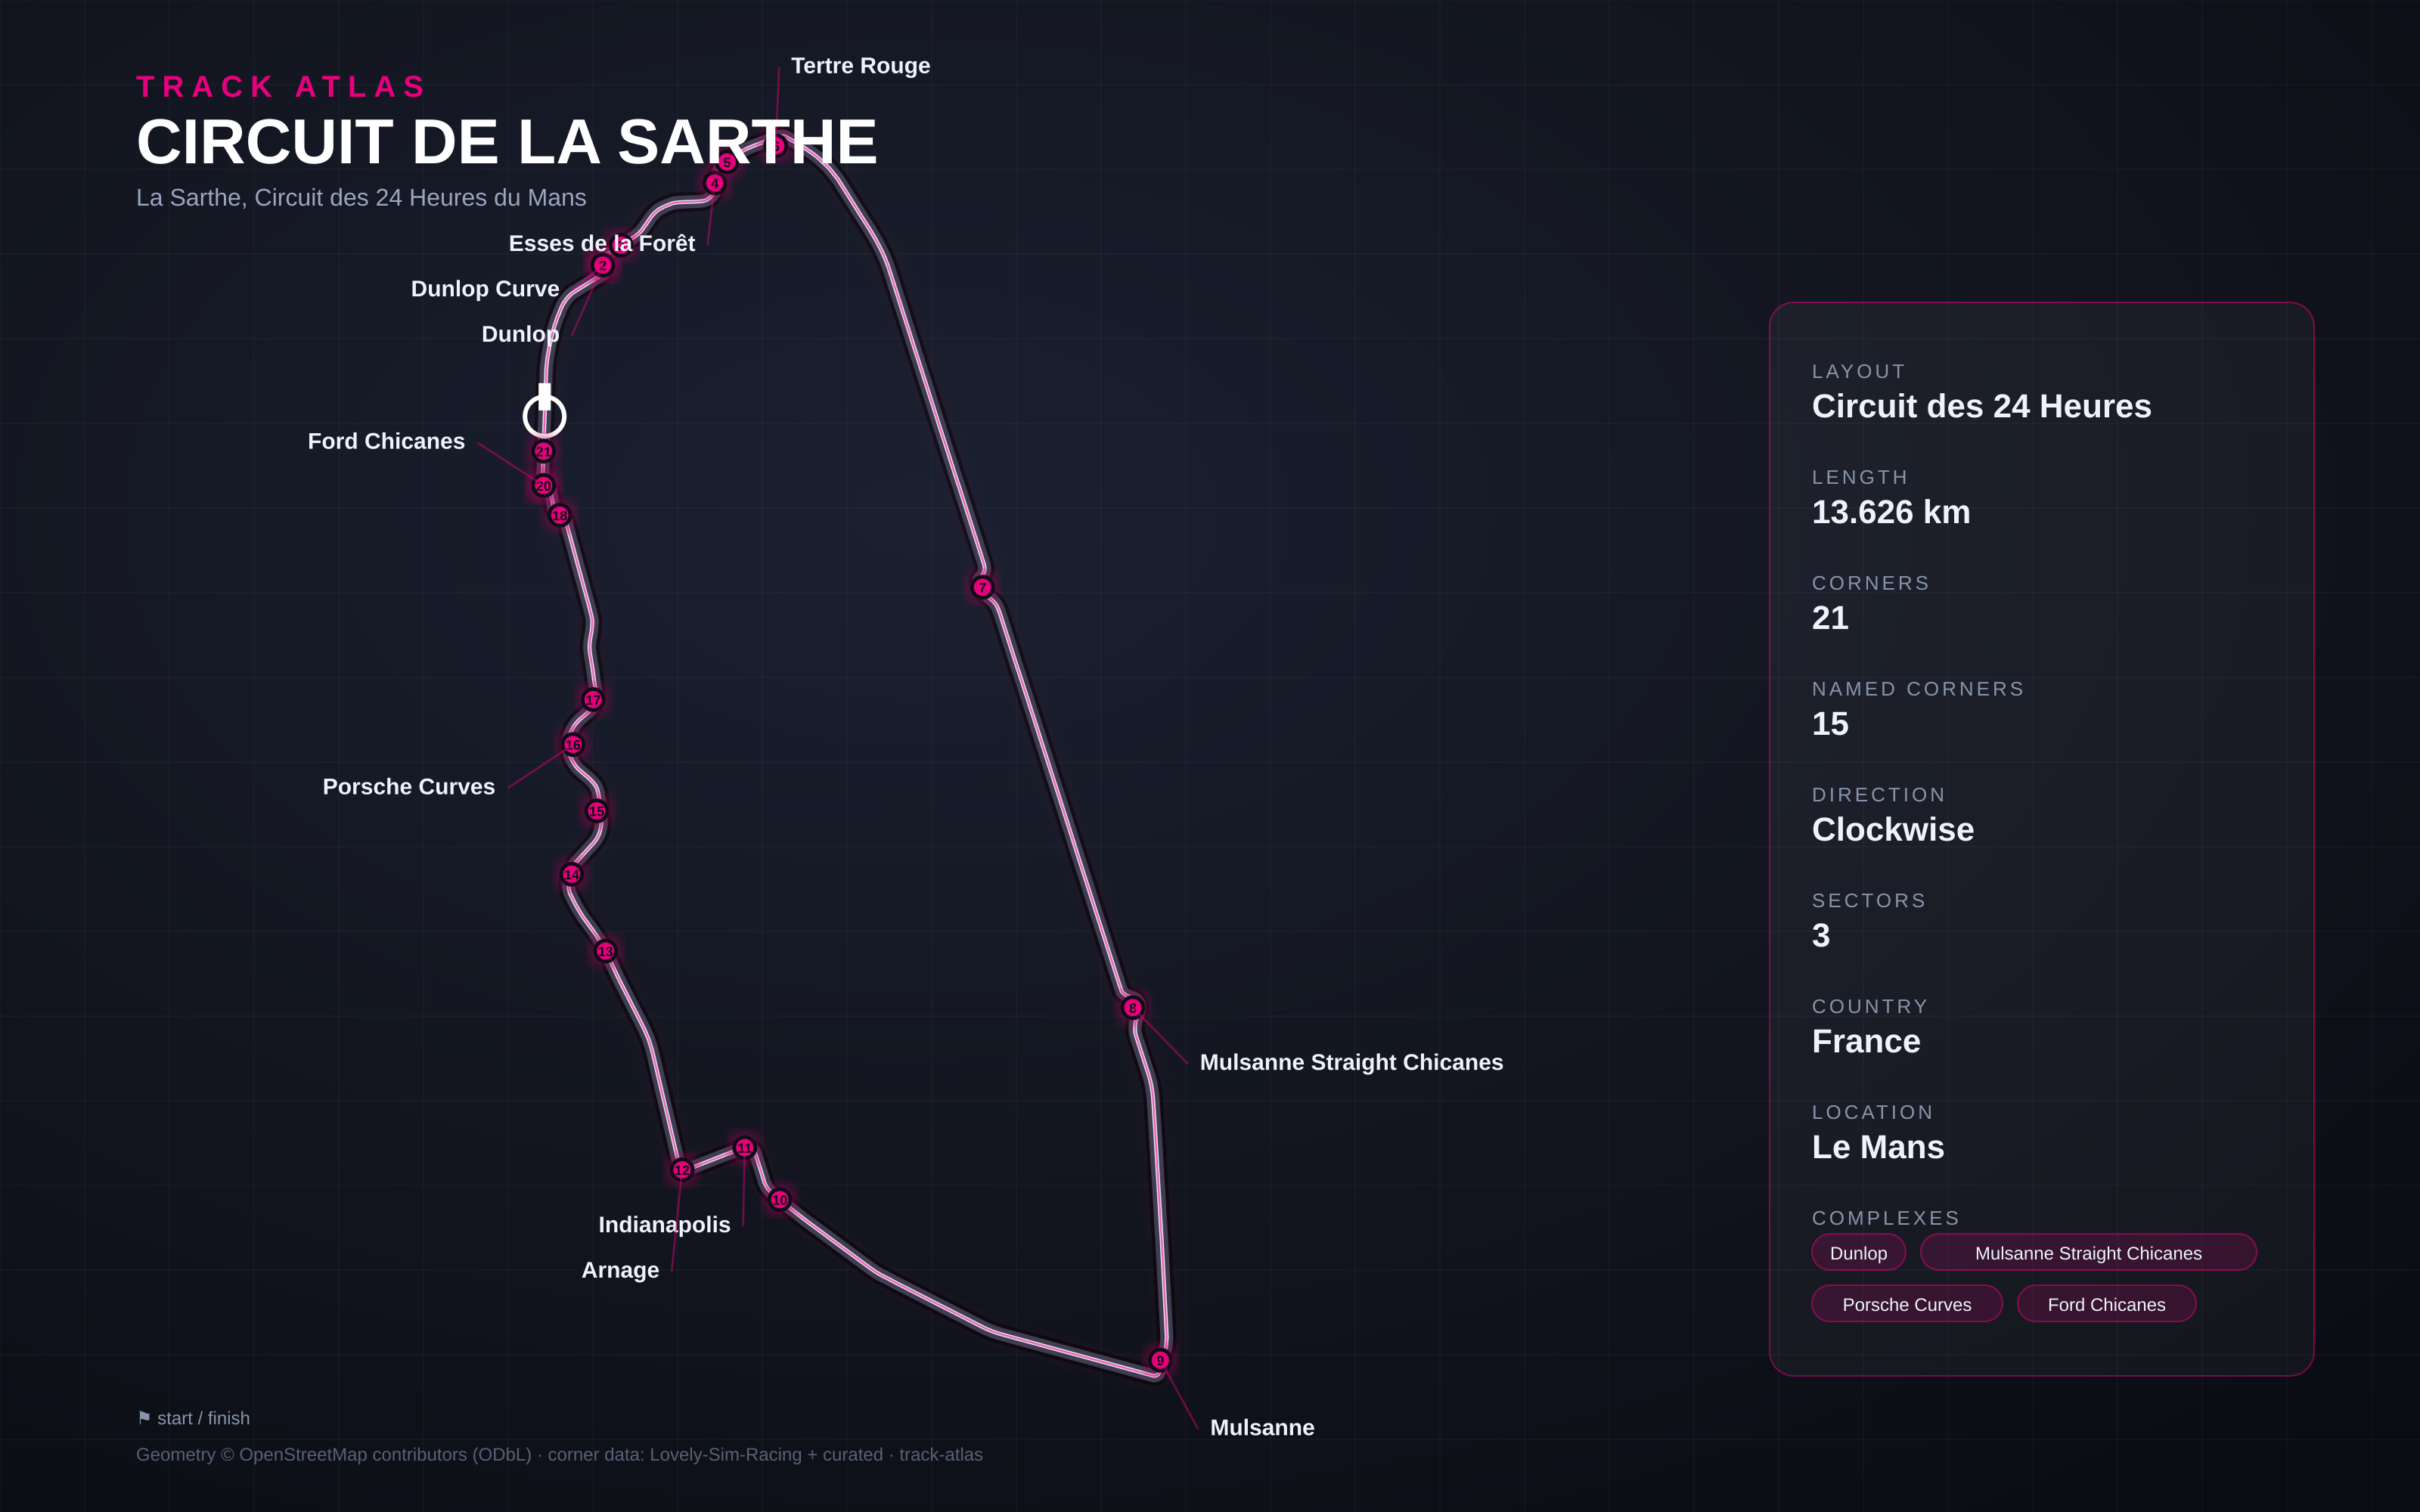
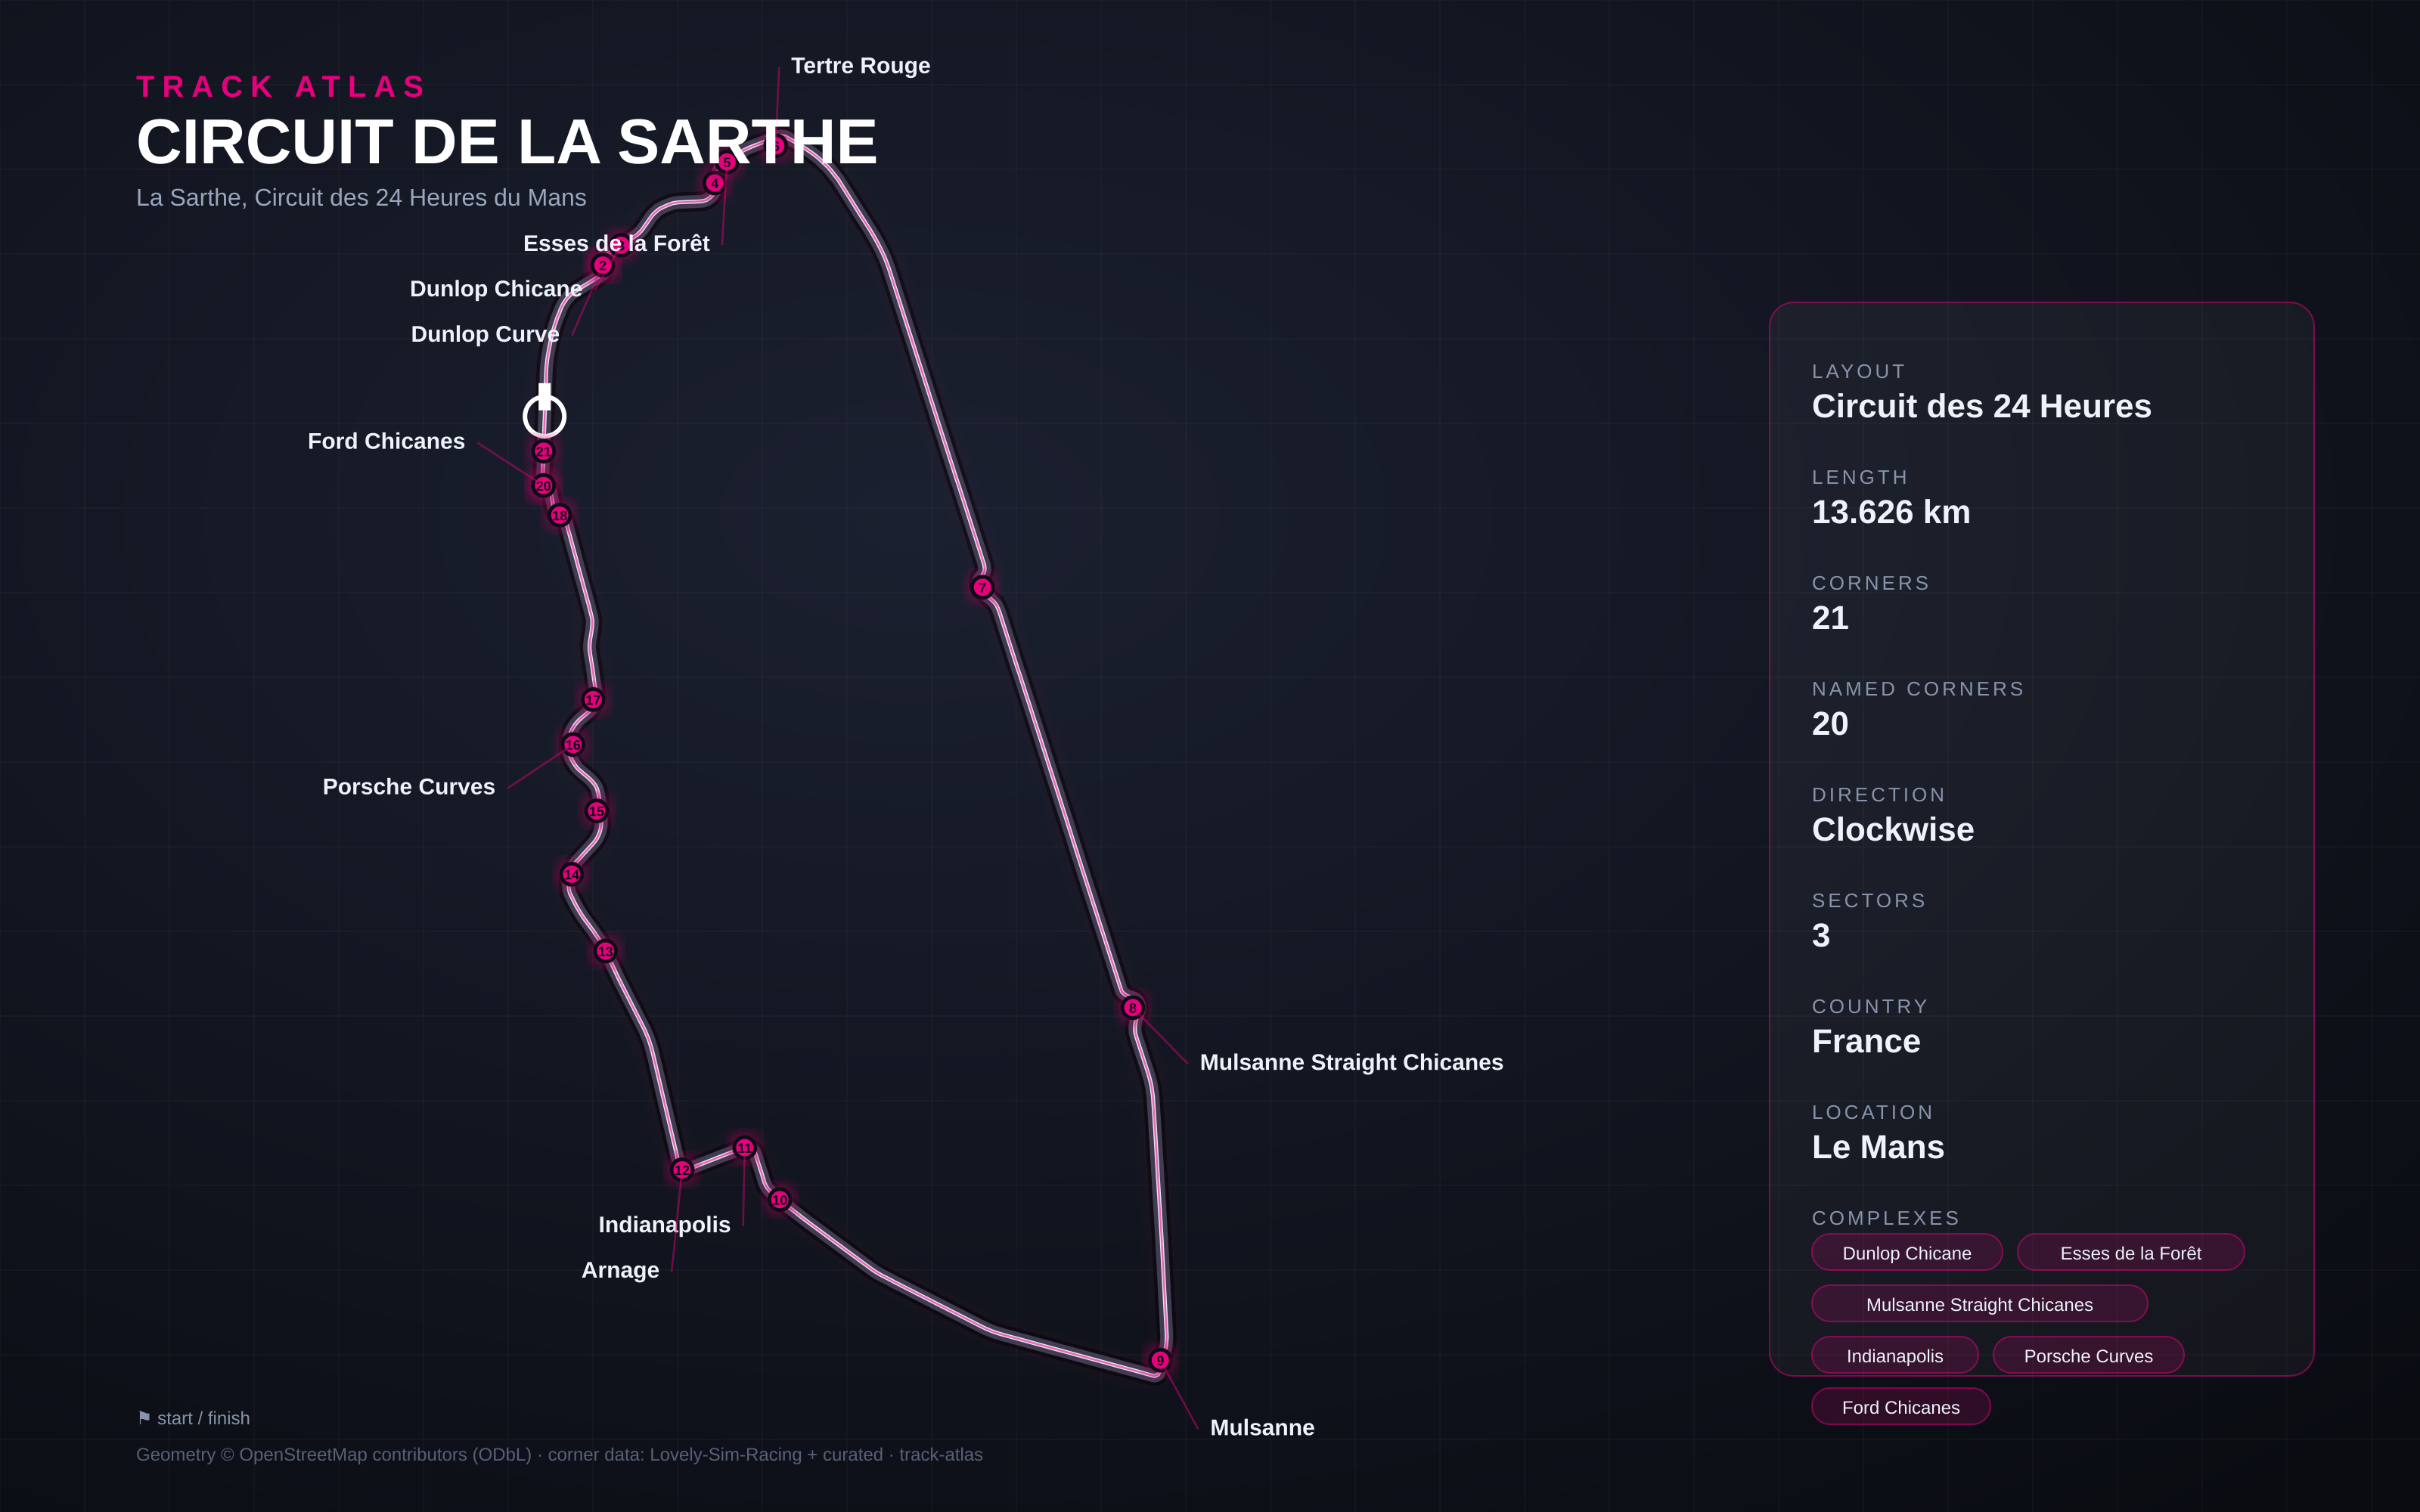
Le Mans annotations + error corrections via claude-fable-5
Errors found and applied:
- T1 (Dunlop Curve) coordinate was a duplicate of T2's chicane point
- T3 left unnamed/uncomplexed — now 'Dunlop Chicane' matching T2
- T4+T5 Esses de la Forêt: T5 was unnamed, complex was null on both
- Mulsanne Straight Chicanes complex removed — the two chicanes are
  ~2 km apart, drivers say 'first chicane' / 'second chicane' separately
- T7/T8 colloquials updated to 'First Chicane' / 'Second Chicane'
- T9 Mulsanne Corner scale 2→1 (slowest point on the lap, 1st gear)
- T10 Indianapolis entry right: now named + grouped with T11 in complex
- T11 Indianapolis scale 4→3 (banked 2nd/3rd-gear left)
- T12 Arnage scale 3→2 (slow 1st/2nd-gear right)
- T16 Karting scale 5→4
- T17 official 'Virage du Corvette'→'Virage Corvette'; scale 5→4
- T18 Ford Chicane scale 4→3
- T19+T21 named 'Ford Chicane' and assigned to 'Ford Chicanes' complex
- T20 duplicate coordinate/marker flagged (geometry issue to fix in OSM)
- 20/21 corners now named

Changed region(s): [[0.75, 0.806, 0.9375, 0.961], [0.1875, 0.155, 0.2812, 0.248]]

diff --git a/scripts/annotate.py b/scripts/annotate.py
@@ -164,7 +164,7 @@ def call_model(prompt: str, model: str) -> str:
     client = anthropic.Anthropic(api_key=api_key)
     msg = client.messages.create(
         model=model,
-        max_tokens=8192,
+        max_tokens=16000,
         system=SYSTEM,
         messages=[{"role": "user", "content": prompt}],
     )